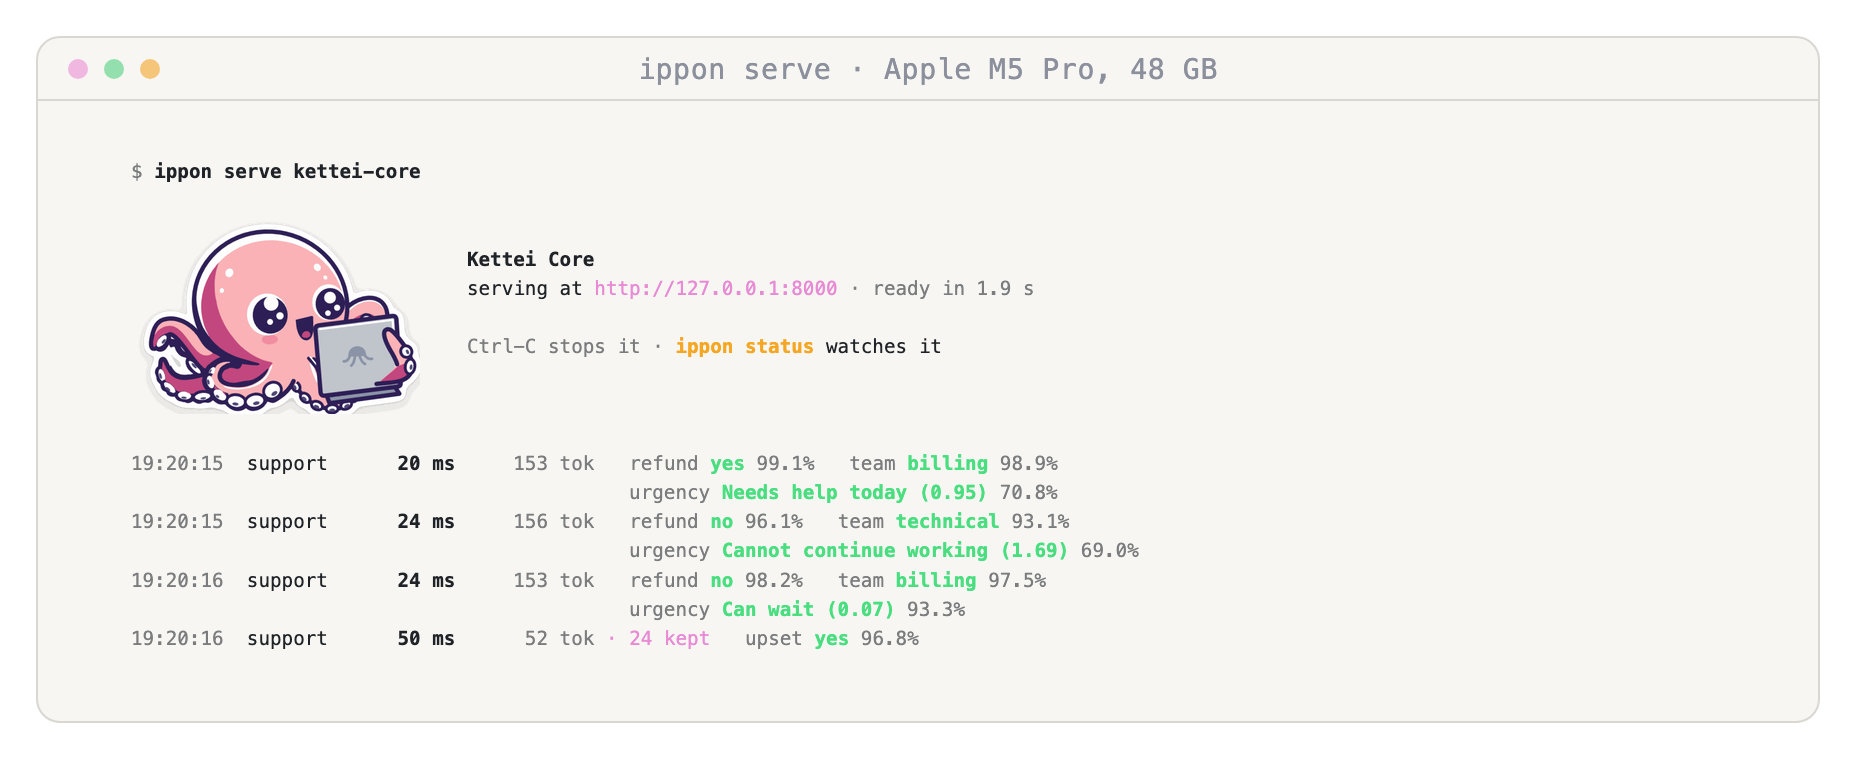
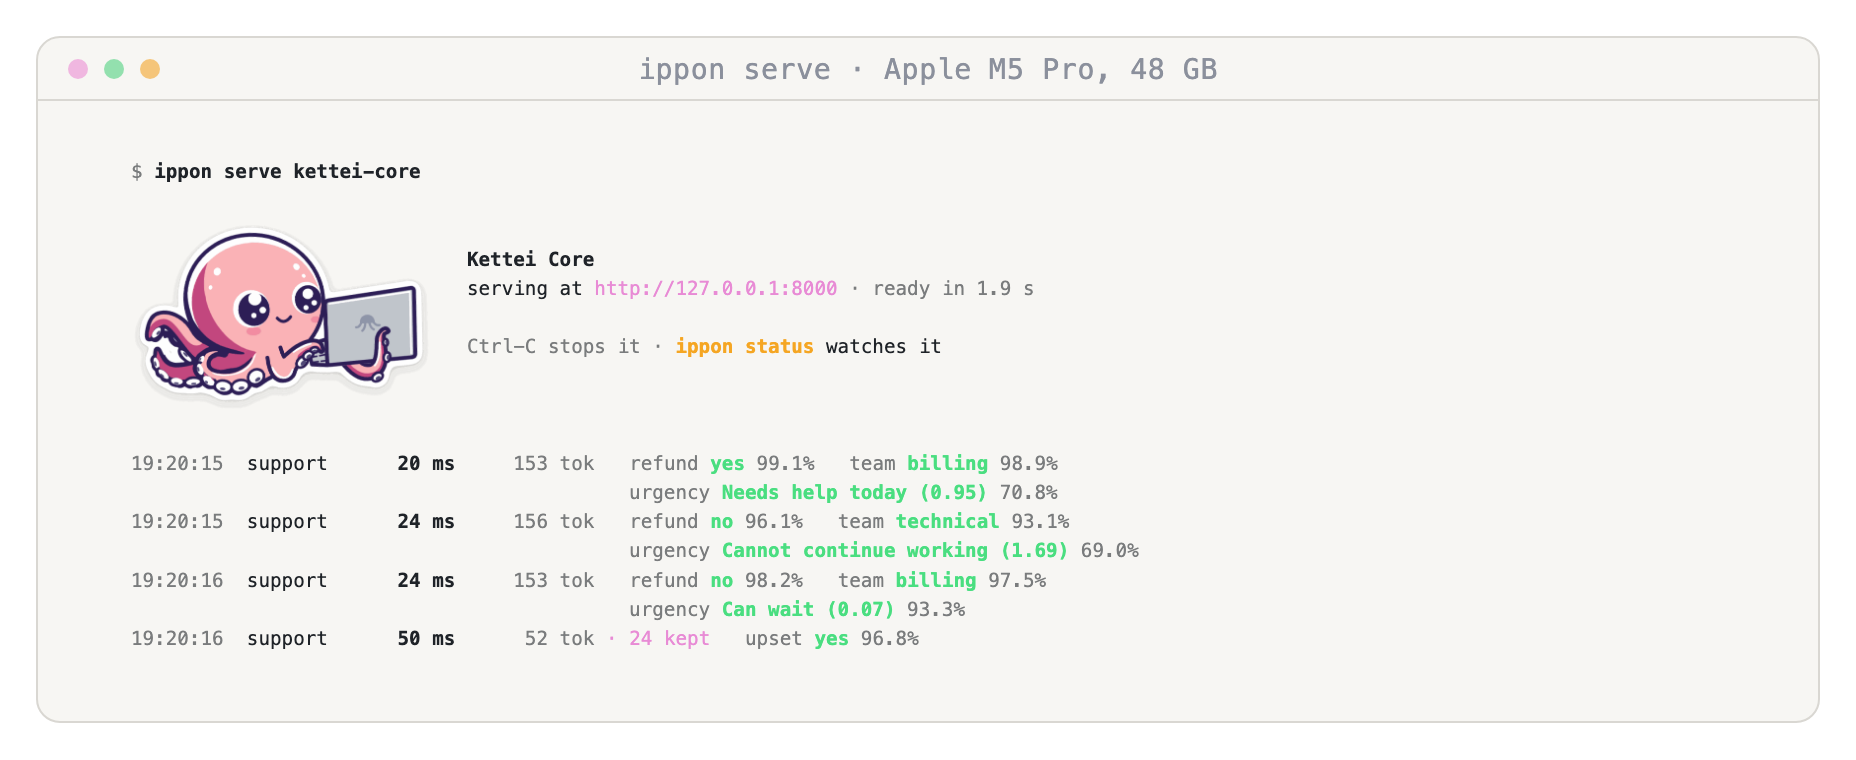
Go back to Federica's Inky at a laptop
The held-laptop pose and the pixel Inky for Apple's Terminal read worse
than the sticker this branch started with, so they go.

Changed region(s): [[0.0625, 0.3026, 0.25, 0.5447]]

diff --git a/src/ippon/brand.py b/src/ippon/brand.py
@@ -3,14 +3,13 @@ and the accents its screens use.
 
 The name is drawn two pixels to a character cell, an upper half block with the top pixel its foreground and the bottom
 one its background, in the terminal's own colour, so it reads on light and dark terminals alike. Inky, Sqwish's octopus
-holding a laptop, is the README's sticker (assets/inky-sticker.svg, drawn into inky.png by scripts/sticker.py), shown as
-a picture where the terminal draws pictures: iTerm2 and WezTerm by iTerm2's inline images, kitty and Ghostty by kitty's
-graphics protocol. Everywhere else (Apple's Terminal, VS Code's terminal, tmux and screen) the banner shows Inky in
-pixels (INKY, 40 x 28, drawn by hand from the sticker's drawing), two to a cell, beside the name where the window has
-room, and `ippon serve` its lines alone, since smaller he is only a blur. Colours are 24-bit where the terminal says it
-takes them (COLORTERM), the nearest of xterm's 256 elsewhere, and none under NO_COLOR, and with no colour there is no
-picture either. The banner opens `ippon` alone and `ippon setup`, and the sticker, smaller, sits beside the header
-`ippon serve` prints once it is ready. Both show only to a person at a terminal.
+at a laptop, is the README's sticker (assets/inky-sticker.svg, drawn into inky.png by scripts/sticker.py), shown as a
+picture where the terminal draws pictures: iTerm2 and WezTerm by iTerm2's inline images, kitty and Ghostty by kitty's
+graphics protocol. Everywhere else (Apple's Terminal, VS Code's terminal, tmux and screen) ippon shows its name and its
+lines alone, on one left edge, since Inky drawn in character cells is only a blur of him. Colours are 24-bit where the
+terminal says it takes them (COLORTERM), the nearest of xterm's 256 elsewhere, and none under NO_COLOR, and with no
+colour there is no picture either. The banner opens `ippon` alone and `ippon setup`, and the sticker, smaller, sits
+beside the header `ippon serve` prints once it is ready. Both show only to a person at a terminal.
 """
 
 from __future__ import annotations
@@ -47,50 +46,6 @@ ACCENTS = {
     "red": (0xF0, 0x5A, 0x5A),
 }
 TAGLINE = "run decision models on your mac"
-# Inky holding a laptop in pixels, two to a character cell, for a terminal that draws no pictures (Apple's Terminal):
-# the sticker's drawing at 40 x 28, so he and the name fit an 80-column window, each pixel the drawing's own colour it
-# covers most, its outline kept where it covers half a pixel, and the eyes and the mouth drawn by hand. Smaller, he is
-# only a blur, so `ippon serve` shows him only as a picture.
-# n outline, w white, p body, m shade, c cheek, g laptop, s its octopus.
-INKY = (
-    "................nnnn....................",
-    ".............nnwwwwwwwn.................",
-    "............nwwpppppppwwn...............",
-    "..........nwwpppppppppppwn..............",
-    ".........nwwppppppppppppppw.............",
-    ".........wwppppppppppppppppn............",
-    "........nwmpwpppppppppppppppn...........",
-    "........wmmpppppppppppppppppw...........",
-    ".......nwmmppppppppppppppppppn..........",
-    ".......nwmmpppppppppppppppnnnn..........",
-    ".......nwmmpppppwwwwpppppnnwwn..........",
-    ".......nwmmppppwnnwwnppppnnwwnnnnnn.....",
-    "..nnn..nmmmppppwnnwwnppppnnnnnnppppn....",
-    ".nppppnnnmmmpppwnnnwnpnnnpnwnpppnnpnn...",
-    ".mmmmppnnmmmpppwnwnnnpnmnnnnnnnnnnnwgn..",
-    "nmwnnmppnmmmmpppwnnnpppppngggggggggggn..",
-    "nnnnnnmpnnmmmmpppccppppmpngggggggggnnn..",
-    ".....nnmpnnnmmpppppppppppngggggggggnpn..",
-    "..n...nmmmnnnmmmpppppppppnggggssggggppn.",
-    ".nn...nnmnnnnnnnmmppppppnnggggsssgggnpn.",
-    ".nmn..nnnwpnmmmmmmppppppnngggggggggggpnn",
-    ".nmmmnnmnpnmmmmmmnpppppppngggggggggggmnn",
-    "..nwmmmmnwpnnnnnpppppnpppngggggggggmmmn.",
-    "...nwwmnnnwppppppwwnnnnppnggggggggnnnn..",
-    "....nnnnnnnnwwnwnnnn..nnpnnnnnnnnnnnn...",
-    "...........nnwnwnnn....nnpnnnnnnnnnnn...",
-    "...............n........nnnnnn..........",
-    "........................................",
-)
-INKY_COLOURS = {
-    "n": (0x2E, 0x1F, 0x57),
-    "w": (0xFF, 0xFF, 0xFF),
-    "p": (0xFB, 0xB2, 0xB6),
-    "m": (0xC3, 0x48, 0x7F),
-    "c": (0xF4, 0x8C, 0xA1),
-    "g": (0xC0, 0xC5, 0xCB),
-    "s": (0x87, 0x94, 0xA5),
-}
 GAP = "   "  # between the sticker and the lines beside it
 Pictures = Literal["iterm", "kitty"]
 
@@ -131,42 +86,6 @@ def name(colour: bool = False) -> list[str]:
     return lines
 
 
-def inky() -> list[str]:
-    """Inky in colour, two pixels to a cell, every line INKY's full width. A cell of one colour is a space on it, as a
-    cell's background fills all of it where Apple's Terminal draws a block character short of the line (SF Mono)."""
-    rows = []
-    for top, bottom in zip(INKY[::2], INKY[1::2], strict=True):
-        cells = []
-        for up, down in zip(top, bottom, strict=True):
-            if up == "." and down == ".":
-                cells.append(" ")
-            elif up == down:
-                cells.append(f"\x1b[{_code(INKY_COLOURS[up], True)}m \x1b[0m")
-            elif down == ".":
-                cells.append(f"\x1b[{_code(INKY_COLOURS[up], False)}m▀\x1b[0m")
-            elif up == ".":
-                cells.append(f"\x1b[{_code(INKY_COLOURS[down], False)}m▄\x1b[0m")
-            else:
-                cells.append(f"\x1b[{_code(INKY_COLOURS[up], False)};{_code(INKY_COLOURS[down], True)}m▀\x1b[0m")
-        rows.append("".join(cells))
-    return rows
-
-
-def in_pixels(lines: Sequence[str], width: int, indent: str = "") -> list[str] | None:
-    """`lines` beside Inky in pixels (`inky`), centred against him, `indent` in from the left edge; None where
-    `width` columns leave no room for him and the longest line."""
-    art = inky()
-    if len(indent) + len(INKY[0]) + len(GAP) + max((len(_plain(line)) for line in lines), default=0) > width:
-        return None
-    top = max(0, (len(art) - len(lines)) // 2)
-    beside = [""] * top + list(lines) + [""] * max(0, len(art) - len(lines) - top)
-    blank = " " * len(INKY[0])
-    return [
-        f"{indent}{a}{GAP}{b}".rstrip()
-        for a, b in zip([*art, *[blank] * (len(beside) - len(art))], beside, strict=True)
-    ]
-
-
 @cache
 def _sticker_png() -> bytes:
     return (files("ippon") / "inky.png").read_bytes()
@@ -185,9 +104,7 @@ def pictures(stream: IO[str]) -> Pictures | None:
     if not stream.isatty() or os.environ.get("TMUX") or os.environ.get("TERM", "").startswith(("screen", "tmux")):
         return None
     program = os.environ.get("TERM_PROGRAM", "")
-    # LC_TERMINAL only where TERM_PROGRAM says nothing (over SSH): a terminal opened from iTerm2 inherits it, and
-    # Apple's Terminal with it drew no picture, leaving a blank where Inky was meant to be
-    if program in ("iTerm.app", "WezTerm") or (not program and os.environ.get("LC_TERMINAL") == "iTerm2"):
+    if program in ("iTerm.app", "WezTerm") or os.environ.get("LC_TERMINAL") == "iTerm2":
         return "iterm"
     kitty = os.environ.get("TERM") in ("xterm-kitty", "xterm-ghostty") or os.environ.get("KITTY_WINDOW_ID")
     if kitty or program == "ghostty":
@@ -262,10 +179,6 @@ def banner(
             return both
         if (alone := sticker(words, stream, width, 44, "  ")) is not None:
             return [*alone, *(f"  {line}" if line else "" for line in under)]
-        if (drawn := in_pixels([*words, *under], width, "  ")) is not None:  # no pictures here: Inky in pixels
-            return drawn
-        if (drawn := in_pixels(words, width, "  ")) is not None:
-            return [*drawn, *(f"  {line}" if line else "" for line in under)]
     return [f"  {line}" if line else "" for line in [*words, *under]]
 
 

diff --git a/scripts/banner.py b/scripts/banner.py
@@ -1,4 +1,4 @@
-"""ippon's README banner: Inky, Sqwish's octopus, holding a laptop as a die-cut sticker beside the wordmark and tagline,
+"""ippon's README banner: Inky, Sqwish's octopus, at a laptop as a die-cut sticker beside the wordmark and tagline,
 as two self-contained SVGs, assets/banner-light.svg and assets/banner-dark.svg, and the sticker on its own,
 assets/inky-sticker.svg, for pages that show ippon's mark: the blog's ippon post, and the picture of it the terminal
 shows (scripts/sticker.py). The name is in brand.py's pixel letters, as the terminal draws it, and the tagline,
@@ -7,12 +7,12 @@ brand.TAGLINE, is in a monospaced face.
     uv run --with fonttools python scripts/banner.py FONTS_DIR assets
 
 Inky is assets/inky.svg, Sqwish's drawing with all its poses in one file, copied unchanged from the console
-(web/brand/inky.svg in decisionone-workbench). When the drawing changes, copy it again from there rather than editing it
-here. The banner sets the book pose, whose arm grips the book's edge, puts an open laptop in the book's place (LID),
-hides the ground shadow and crops the drawing to the scene, then cuts it out as a sticker: a white keyline grown round
-its silhouette, a hairline and a soft shadow, tilted a little. Inky blinks as it does in the console. FONTS_DIR holds
-Source Code Pro's variable font from github.com/google/fonts (OFL), as SourceCodePro.ttf: the tagline is outlined from
-it, since GitHub loads no fonts inside a README image.
+(web/brand/inky.svg in decisionone-workbench). When the drawing changes, copy it again from there rather than editing
+it here. The banner sets the laptop pose, hides the ground shadow and crops the drawing to the scene, then cuts it out
+as a sticker: a white keyline grown round its silhouette, a hairline and a soft shadow, tilted a little. Inky blinks
+as it does in the console, and its typing arm is held still so the README stays calm. FONTS_DIR holds Source Code
+Pro's variable font from github.com/google/fonts (OFL), as SourceCodePro.ttf: the tagline is outlined from it, since
+GitHub loads no fonts inside a README image.
 """
 
 import re
@@ -35,24 +35,7 @@ THEMES = {
     "light": {"word": "#1f2328", "tag": "#4a5568", "paper": "#ffffff", "shadow": 0.2, "hairline": 0.1},
     "dark": {"word": "#e6edf3", "tag": "#9da7b3", "paper": "#fcfaf8", "shadow": 0.55, "hairline": 0},
 }
-SCENE = (-13.5, 29.5, 203, 144.5)  # the book pose's scene in the drawing's own units: x, y, width, height
-# The book's own shapes, from its page tops to its spine: the arm that holds it stays, in front of what replaces it.
-BOOK = re.compile(r'<path d="M139\.5 120.*?<path d="M184\.3 120l0 51"[^>]*/>', re.S)
-# An open laptop's lid seen from behind, in the laptop pose's colours and with its octopus: the base's edge below it,
-# the lid, its lit rim and the octopus on it.
-LID = "".join(
-    (
-        '<path d="M144 175.5l57-4.6 3.6 6.2-58.6 4.9z" fill="#8794A5" class="lf"/>',
-        '<path class="lf" fill="#C0C5CB" d="M137.4 120.4q-.1-3.3 3.2-3.6l61.4-4.6q3.3-.2 3.4 3.1l.8 52.4',
-        'q.1 3.3-3.2 3.5l-60.6 4.3q-3.3.2-3.4-3.1z"/>',
-        '<path d="M141.2 120l61-4.5.8 52" fill="none" stroke="#fff" stroke-width="1.6" stroke-linejoin="round"',
-        ' stroke-linecap="round"/>',
-        '<g fill="#8794A5" transform="translate(171.5 143.5) scale(1.35) translate(-197.25 -129)">',
-        '<path d="M191.5 129.5c-.5-8 11.5-8.5 11 0z"/>',
-        '<path d="M192.5 129q-1.5 3.5-4 3.2m7-2.7q-.5 4-2.5 5.5m5.5-5.5q1 4 3 5m0-5.5q2 3 4.5 2.5" fill="none"',
-        ' stroke="#8794A5" stroke-width="1.6" stroke-linecap="round"/></g>',
-    )
-)
+SCENE = (-3.5, 65, 202.5, 122)  # the laptop pose's scene in the drawing's own units: x, y, width, height
 TILT = -3  # degrees the sticker is turned, as a sticker is never quite straight
 TEXT_X = 644  # banner units from the left where the name and the tagline start
 
@@ -65,14 +48,12 @@ def swap(text: str, old: str, new: str) -> str:
 
 
 def inky(x: float, y: float, width: float) -> str:
-    """The drawing holding the laptop as an <svg> placed at x, y, `width` wide."""
+    """The drawing at the laptop as an <svg> placed at x, y, `width` wide."""
     svg = re.sub(r"^<!--.*?-->\s*", "", (ASSETS / "inky.svg").read_text(), flags=re.S)
-    svg = swap(svg, 'class="octo-inky"', 'class="octo-inky" data-pose="book"')
-    svg, found = BOOK.subn(LID, svg, count=1)
-    if not found:
-        raise SystemExit("assets/inky.svg no longer has the book's shapes: see the docstring of scripts/banner.py")
+    svg = swap(svg, 'class="octo-inky"', 'class="octo-inky" data-pose="laptop"')
     svg = swap(svg, "width: 100%; height: auto; ", "")  # placed by the banner, not sized by a page
-    svg = swap(svg, "</style>", "  .octo-inky .inky-shadow { display: none; }\n  </style>")
+    held = "  .octo-inky .inky-shadow { display: none; } .octo-inky { --inky-typing: paused; }\n  </style>"
+    svg = swap(svg, "</style>", held)
     box = " ".join(f"{v:g}" for v in SCENE)
     height = width * SCENE[3] / SCENE[2]
     return swap(
@@ -133,7 +114,7 @@ def name() -> str:
 def banner(theme: str) -> str:
     colours = THEMES[theme]
     tag = outline("SourceCodePro.ttf", 400, TAGLINE, 26)
-    width, height, art = 1170, 380, 470
+    width, height, art = 1170, 380, 532
     top = (height - art * SCENE[3] / SCENE[2]) / 2
     return f'''<svg xmlns="http://www.w3.org/2000/svg" viewBox="0 0 {width} {height}" width="{width}" height="{height}"
   role="img" aria-label="ippon: {TAGLINE}">
@@ -151,7 +132,7 @@ def alone() -> str:
     x, y, w, h = SCENE[0] - pad, SCENE[1] - pad, SCENE[2] + 2 * pad, SCENE[3] + 2 * pad
     return (
         f'<svg xmlns="http://www.w3.org/2000/svg" viewBox="{x:g} {y:g} {w:g} {h:g}" width="{w:g}" height="{h:g}" '
-        'role="img" aria-label="Inky, the Sqwish octopus, holding a laptop">'
+        'role="img" aria-label="Inky, the Sqwish octopus, at a laptop">'
         f"{sticker(SCENE[0], SCENE[1], SCENE[2], 'light')}</svg>\n"
     )
 

diff --git a/tests/test_cli.py b/tests/test_cli.py
@@ -4,10 +4,8 @@ import argparse
 import base64
 import io
 import json
-import os
 import re
 import shlex
-import shutil
 import sys
 from importlib.resources import files
 from pathlib import Path
@@ -382,29 +380,18 @@ def test_ippon_alone_shows_inkys_sticker_where_the_terminal_draws_pictures_and_w
     assert chunks[-1][0].endswith("m=0")
     assert base64.b64decode("".join(data for _, data in chunks)) == sticker
 
-    # Apple's Terminal (one opened from iTerm2 too, which inherits LC_TERMINAL) and iTerm2 inside tmux: Inky in
-    # pixels beside the name in an 80-column window, and no picture sequence a terminal could print as text
-    for program, inherited, tmux in (
-        ("Apple_Terminal", None, None),
-        ("Apple_Terminal", "iTerm2", None),
-        ("iTerm.app", None, "/tmp/tmux-501/default,1,0"),
-    ):
+    for program, tmux in (("Apple_Terminal", None), ("iTerm.app", "/tmp/tmux-501/default,1,0")):
         monkeypatch.setenv("TERM_PROGRAM", program)
-        if inherited:
-            monkeypatch.setenv("LC_TERMINAL", inherited)
         if tmux:
             monkeypatch.setenv("TMUX", tmux)
-        monkeypatch.setattr(shutil, "get_terminal_size", lambda *a: os.terminal_size((80, 24)))
         assert main([]) == 0
         shown = capsys.readouterr().out
         assert "\x1b]1337" not in shown
         assert "\x1b_G" not in shown
         words = re.sub(r"\x1b\[[0-9;]*m", "", shown).splitlines()
-        beside = [line for line in words if line.endswith("run decision models on your mac")]
-        assert len(beside) == 1
-        assert len(beside[0]) <= 79  # beside Inky, in the window
-        assert shown.count("\x1b[48;") > 100  # Inky's cells, each a colour
-        assert any(line.endswith(f"ippon {__version__}") for line in words)
+        assert words[1] == "  ▀▀"
+        assert "  run decision models on your mac" in words
+        assert f"  ippon {__version__}" in words
 
 
 def test_a_request_is_read_from_stdin_only_when_dash_asks(

diff --git a/CHANGELOG.md b/CHANGELOG.md
@@ -2,10 +2,10 @@
 
 ## Unreleased
 
-- **Inky in place of the cat** - The README's banner shows Inky, Sqwish's octopus, holding a laptop, as a sticker.
+- **Inky in place of the cat** - The README's banner shows Inky, Sqwish's octopus, at a laptop as a sticker.
   `ippon` and `ippon setup` open with the same sticker beside ippon's name in terminals that draw pictures
-  (iTerm2, WezTerm, kitty and Ghostty), and with Inky drawn in coloured cells elsewhere (Apple's Terminal, VS Code,
-  tmux), beside the name where the window is 80 columns or wider. `ippon setup` names the Mac on the version's line. `ippon serve` shows the sticker beside its first
+  (iTerm2, WezTerm, kitty and Ghostty), and with the name, the tagline and the version alone elsewhere, on one
+  left edge. `ippon setup` names the Mac on the version's line. `ippon serve` shows the sticker beside its first
   lines in those terminals, and starts with the model, not ippon's version. `ippon status` shows no picture,
   since it redraws its screen every second.
 
